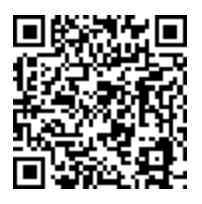
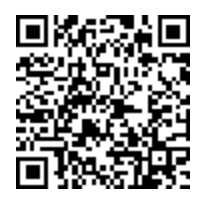
final

diff --git a/portfolio.html b/portfolio.html
@@ -88,12 +88,12 @@
     <div class="container">
         <div class="row">
             <div class="col-lg-6 "><a style="color: black;font-weight: 100;
-        " href="http://online.mobissue.com/wple/piul/"><p style="font-family: 'HelveticaNeue-UltraLight', 'Helvetica Neue UltraLight', 'Helvetica Neue', 'Roboto',  sans-serif ;font-weight: 100;
+        " href="http://online.mobissue.com/wple/rxcr/"><p style="font-family: 'HelveticaNeue-UltraLight', 'Helvetica Neue UltraLight', 'Helvetica Neue', 'Roboto',  sans-serif ;font-weight: 100;
 ">SELECTED PORTFOLIO</p></a>
-<iframe style='width:620px;height:351px' src='https://s3.amazonaws.com/online.mobissue.com/wple/piul/index.html'  seamless='seamless' scrolling='no' frameborder='0' allowtransparency='true' allowfullscreen='true' ></iframe><br><a href="https://s3.amazonaws.com/online.mobissue.com/wple/piul/index.html" title="Eric Lee Selected Portfolio " target="_blank"></a>
+<iframe style='width:620px;height:351px' src='https://s3.amazonaws.com/online.mobissue.com/wple/rxcr/index.html'  seamless='seamless' scrolling='no' frameborder='0' allowtransparency='true' allowfullscreen='true' ></iframe><br><a href="https://s3.amazonaws.com/online.mobissue.com/wple/rxcr/index.html" title="Eric Lee Selected Portfolio " target="_blank"></a>
 
 
-<p style="padding-bottom: 20px"><a class="linkedin" href="http://online.mobissue.com/wple/piul/" style="color:black !important;font-family: 'HelveticaNeue-UltraLight', 'Helvetica Neue UltraLight', 'Helvetica Neue', 'Roboto',  sans-serif ;font-weight: 100;
+<p style="padding-bottom: 20px"><a class="linkedin" href="http://online.mobissue.com/wple/rxcr/" style="color:black !important;font-family: 'HelveticaNeue-UltraLight', 'Helvetica Neue UltraLight', 'Helvetica Neue', 'Roboto',  sans-serif ;font-weight: 100;
 ">Click for full-screen view</a></p>
 
 
